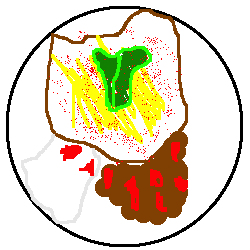
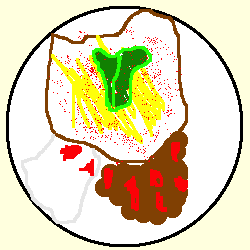
Changed background color and Header font Colors

Changed region(s): [[0.0, 0.0, 1.0, 1.0]]

diff --git a/public_html/dinner.html b/public_html/dinner.html
@@ -17,37 +17,37 @@
     </ul>
 </nav>
 
-<h2>Healthy Choices</h2>
-<p>Taco Salad&colon; your choice of chicken, steak or beef, topped with a bed of fresh lettuce, shredded cheese, tomato, 
+<h2 id="header2">Healthy Choices</h2>
+<p class="menu_item"><b>Taco Salad</b>&colon; your choice of chicken, steak or beef, topped with a bed of fresh lettuce, shredded cheese, tomato, 
 onion, guacamole, sour cream, and salsa. &dollar;10.99</p>
 <p> <img src="img/taco_salad.png" alt="Taco Salad"/></p>
-<p>Grilled Chicken Salad&colon; strips of grilled chicken breast on top of a bed of fresh lettuce,
+<p class="menu_item"><b>Grilled Chicken Salad</b>&colon; strips of grilled chicken breast on top of a bed of fresh lettuce,
  topped with saut&eacute;ed onions and green peppers, shredded cheese, and sour cream. &dollar;11.99</p>
 <p> <img src="img/chicken_salad.png" alt="Chicken Salad"/></p>
-<h2>From the Sea</h2>
-<p>Fish Tacos&colon; our hand-battered and fried fish topped with lettuce, queso, tomatoes,
+<h2 id="header2">From the Sea</h2>
+<p class="menu_item"><b>Fish Tacos</b>&colon; our hand-battered and fried fish topped with lettuce, queso, tomatoes,
  and sprinkled with parsley. Comes with 3 tortillas of your choice&colon; corn or wheat. &dollar;8.99</p>
-<p>Seafood Chimichanga&colon; a large, fried tortilla filled with grilled shrimp, crab, and lobster.
+<p class="menu_item"><b>Seafood Chimichanga</b>&colon; a large, fried tortilla filled with grilled shrimp, crab, and lobster.
  The tortilla is smothered in our homemade verde sauce and queso. Comes with a side of rice and beans. &dollar13.99</p>
 
-<h2>Traditional Mexican Food</h2>
-<p>Fajitas&colon; your choice of chicken or steak with saut&eacute;ed green peppers and onions. 
+<h2 id="header2">Traditional Mexican Food</h2>
+<p class="menu_item"><b>Fajitas</b>&colon; your choice of chicken or steak with saut&eacute;ed green peppers and onions. 
 Filled with fresh lettuce, tomato,sour cream, guacamole, and a side of rice and beans. &dollar;12.99</p>
-<p>Quesadilla&colon; your choice of corn or flour tortilla filled with shredded cheese and then fried. 
+<p class="menu_item"><b>Quesadilla</b>&colon; your choice of corn or flour tortilla filled with shredded cheese and then fried. 
 Comes with a side of rice and beans. &dollar;4.99 Add chicken for &dollar;1.99 extra</p>
 <p> <img src="img/quesadilla.png" alt="Cheese Quesadilla"/></p>
-<p>Chimichanga&colon; your choice of chicken or beef in a fried tortilla smothered with queso, lettuce,
+<p class="menu_item"><b>Chimichanga</b>&colon; your choice of chicken or beef in a fried tortilla smothered with queso, lettuce,
  guacamole, and sour cream. Comes with a side of rice and beans. &dollar;9.99
-<p>Burrito&colon; your choice of chicken or beef in a tortilla filled with rice, shredded cheese, black beans
+<p class="menu_item"><b>Burrito</b>&colon; your choice of chicken or beef in a tortilla filled with rice, shredded cheese, black beans
  and smothered in our homemade verde sauce and sour cream. Comes with a side of rice and beans. &dollar;8.99</p>
 <p> <img src="img/burrito.png" alt="Burrito"/></p>
-<p>Steak and Beans&colon; thin steak grilled to your choosing and smothered in pico de gallo and jalapenos. 
+<p class="menu_item"><b>Steak and Beans</b>&colon; thin steak grilled to your choosing and smothered in pico de gallo and jalapenos. 
 Comes with a side of rice and beans. &dollar13.99</p>
-<p>Tacos&colon; your choice of beef, chicken, or steak filled with lettuce, tomatoes, and queso. 
+<p class="menu_item"><b>Tacos</b>&colon; your choice of beef, chicken, or steak filled with lettuce, tomatoes, and queso. 
 Comes with a side of rice and beans. &dollar9.99</p>
 <p> <img src="img/tacos.png" alt="Three Tacos"/></p>
 
-<h2>Sides and Extras</h2>
+<h2 id="header2">Sides and Extras</h2>
 <p>Rice and Beans &dollar;2.99</p>
 <p>Rice &dollar;.75</p>
 <p>Beans &dollar;.75</p>

diff --git a/public_html/dessert.html b/public_html/dessert.html
@@ -18,16 +18,16 @@ Dessert
     <li><a href="dinner.html">Dinner</a></li>
 </ul>
 </nav>
-<p><b>Churros</b>: $4.49</p>
+<p class="menu_item"><b>Churros</b>: $4.49</p>
 <p>- Fried dough pastry with caramel syrup inside, tossed with cinnamon sugar and topped with chocolate syrup. Served with whipped cream.</p>
 <p><img src="img/churro.png" alt="Churro"/></p>
-<p><b>Sopapilla</b>: $4.49</p>
+<p class="menu_item"><b>Sopapilla</b>: $4.49</p>
 <p>- Flat fried tortillas sprinkled with cinnamon sugar and swirled with chocolate syrup. Served with whipped cream.</p>
 <p><img src="img/sopapilla.png" alt="Sopapilla"/></p>
-<p><b>Fried Ice Cream</b>: $5.49</p>
+<p class="menu_item"><b>Fried Ice Cream</b>: $5.49</p>
 <p>- Deep fried vanilla ice cream with a crunchy outer shell. Served with chocolate syrup and lechera, topped with whipped cream and a cherry.</p>
 <p><img src="img/cream.png" alt="Fried Ice Cream"/></p>
-<p><b>Choco Flan</b>: $5.99</p>
+<p class="menu_item"><b>Choco Flan</b>: $5.99</p>
 <p>- Classic Mexican dessert that combines a rich decadent layer of chocolate cake, a creamy layer of flan, and topped with chocolate syrup.</p>
 <p><img src="img/flan.png" alt="Choco Flan"/></p>
 <footer>

diff --git a/public_html/breakfast.html b/public_html/breakfast.html
@@ -18,20 +18,20 @@ Breakfast Menu
     <li><a href="dessert.html">Dessert</a></li>
 </ul>
 </nav>
-<h2>
+<h2 id = "header2">
 Served Until 11:00 AM Daily
 </h2>
-<p><b>Breakfast Burrito</b>: $6.25</p>
+<p class="menu_item"><b>Breakfast Burrito</b>: $6.25</p>
 <p>- Eggs and potato smothered in green chile with lettuce, tomato, and cheese.</p>
 <p><i>Add bacon, sausage, ham or chorizo for 0.50&#162;.</i></p>
 <p><img src="img/breakfast.png" alt="Breakfast Burrito"/></p>
-<p><b>Huevos Rancheros</b>: $6.25</p>
+<p class="menu_item"><b>Huevos Rancheros</b>: $6.25</p>
 <p>- Two eggs served the way you like, smothered in green chille and served with beans, rice, and a tortilla.</p>
 <p><img src="img/huevos.png" alt="Huevos Rancheros"/></p>
-<p><b>Spanish Omelet</b>: $6.25</p>
+<p class="menu_item"><b>Spanish Omelet</b>: $6.25</p>
 <p>- Eggs mixed with ham, bell peppers, onions, tomatoes, cheese, and pico de gallo.  </p>
 <p><img src="img/omelet.png" alt="Spanish Omelet"/></p>
-<p><b>Steak and Eggs</b>: $7.00</p>
+<p class="menu_item"><b>Steak and Eggs</b>: $7.00</p>
 <p>- Flat steak smothered in green chile and served with beans.</p>
 <p><img src="img/steak.png" alt="Steak and Eggs"/></p>
 

diff --git a/public_html/index.html b/public_html/index.html
@@ -2,11 +2,36 @@
 <html lang="en">
 <head>
 <meta charset="utf-8">
-<link rel="stylesheet" type="text/css" href="stylesheet.css">
 <title>El Rio</title>
+<style>
+body{
+    background: #FFFFDE
+}
+
+nav ul {
+  list-style-type: none;
+  margin: 0;
+  padding: 0;
+  overflow: hidden;
+  background-color: #105B63;
+  font-family: arial,sans-serif;
+}
+
+nav li {
+  float: left;
+}
+
+nav li a {
+  display: block;
+  color: white;
+  text-align: center;
+  padding: 14px 16px;
+  text-decoration: none;
+}
+</style>
 </head>
 <body>
-<h1>El Rio</h1>
+<h1 style="font-size:40px;font-family:arial, sans-serif;color:#BD4932;">El Rio</h1>
 <nav>
     <ul>
      <li><a href="about.html">About</a></li>
@@ -17,7 +42,7 @@
     </ul>
 </nav>
 <h2> <img src="img/el_rio.png" alt="River" /></h2>
-<h2>World Famous Homemade Margaritas</h2>
+<h2 style= "font-size:24px;font-family:arial, sans-serif;color:#BD4932;">World Famous Homemade Margaritas</h2>
 <p>No one does Margaritas like El Rio does Margaritas&excl;</p>
 <p>1234 N. Center St. Indianola, IA 50501</p>
 <p>123-456-7890</p>

diff --git a/public_html/stylesheet.css b/public_html/stylesheet.css
@@ -1,3 +1,41 @@
 body {
-    background: #F9FFEE;
+    background: #FFFFDE;
     }
+
+h1{
+    font-size: 40px;
+    font-family: arial,sans-serif;
+    color:#BD4932;
+}
+
+#header2{
+    font-size: 24px;
+    font-family: arial,sans-serif;
+    color:#BD4932;
+}
+.menu_item{
+    font-size: 16px;
+    font-family: arial,sans-serif;
+    color:#BD4932;
+}
+
+nav ul {
+  list-style-type: none;
+  margin: 0;
+  padding: 0;
+  overflow: hidden;
+  background-color: #105B63;
+  font-family: arial,sans-serif;
+}
+
+nav li {
+  float: left;
+}
+
+nav li a {
+  display: block;
+  color: white;
+  text-align: center;
+  padding: 14px 16px;
+  text-decoration: none;
+}

diff --git a/public_html/drinks.html b/public_html/drinks.html
@@ -17,7 +17,7 @@
     </ul>
 </nav>
 
-<h2>Margaritas <img src="img/margarita.png" alt="Margarita"/></h2>
+<h2 id="header2">Margaritas <img src="img/margarita.png" alt="Margarita"/></h2>
 <p>Lime, Mango, Peach, Raspberry, Strawberry</p>
 <table>
     <tr>

diff --git a/public_html/about.html b/public_html/about.html
@@ -18,7 +18,7 @@ About Us
     <li><a href="dessert.html">Dessert</a></li>
 </ul>
 </nav>
-<h2>
+<h2 id = "header2">
 El Rio &centerdot; Mexican Restaurant
 </h2>
 <h3>

diff --git a/public_html/signup.html b/public_html/signup.html
@@ -2,6 +2,7 @@
 <html lang="en">
 <head>
 <meta charset="utf-8">
+<link rel="stylesheet" type="text/css" href="stylesheet.css">
 <title>Sign Up</title>
 </head>
 <body>

diff --git a/public_html/login.html b/public_html/login.html
@@ -2,6 +2,7 @@
 <html lang="en">
 <head>
 <meta charset="utf-8">
+<link rel="stylesheet" type="text/css" href="stylesheet.css">
 <title>Login</title>
 </head>
 <body>
